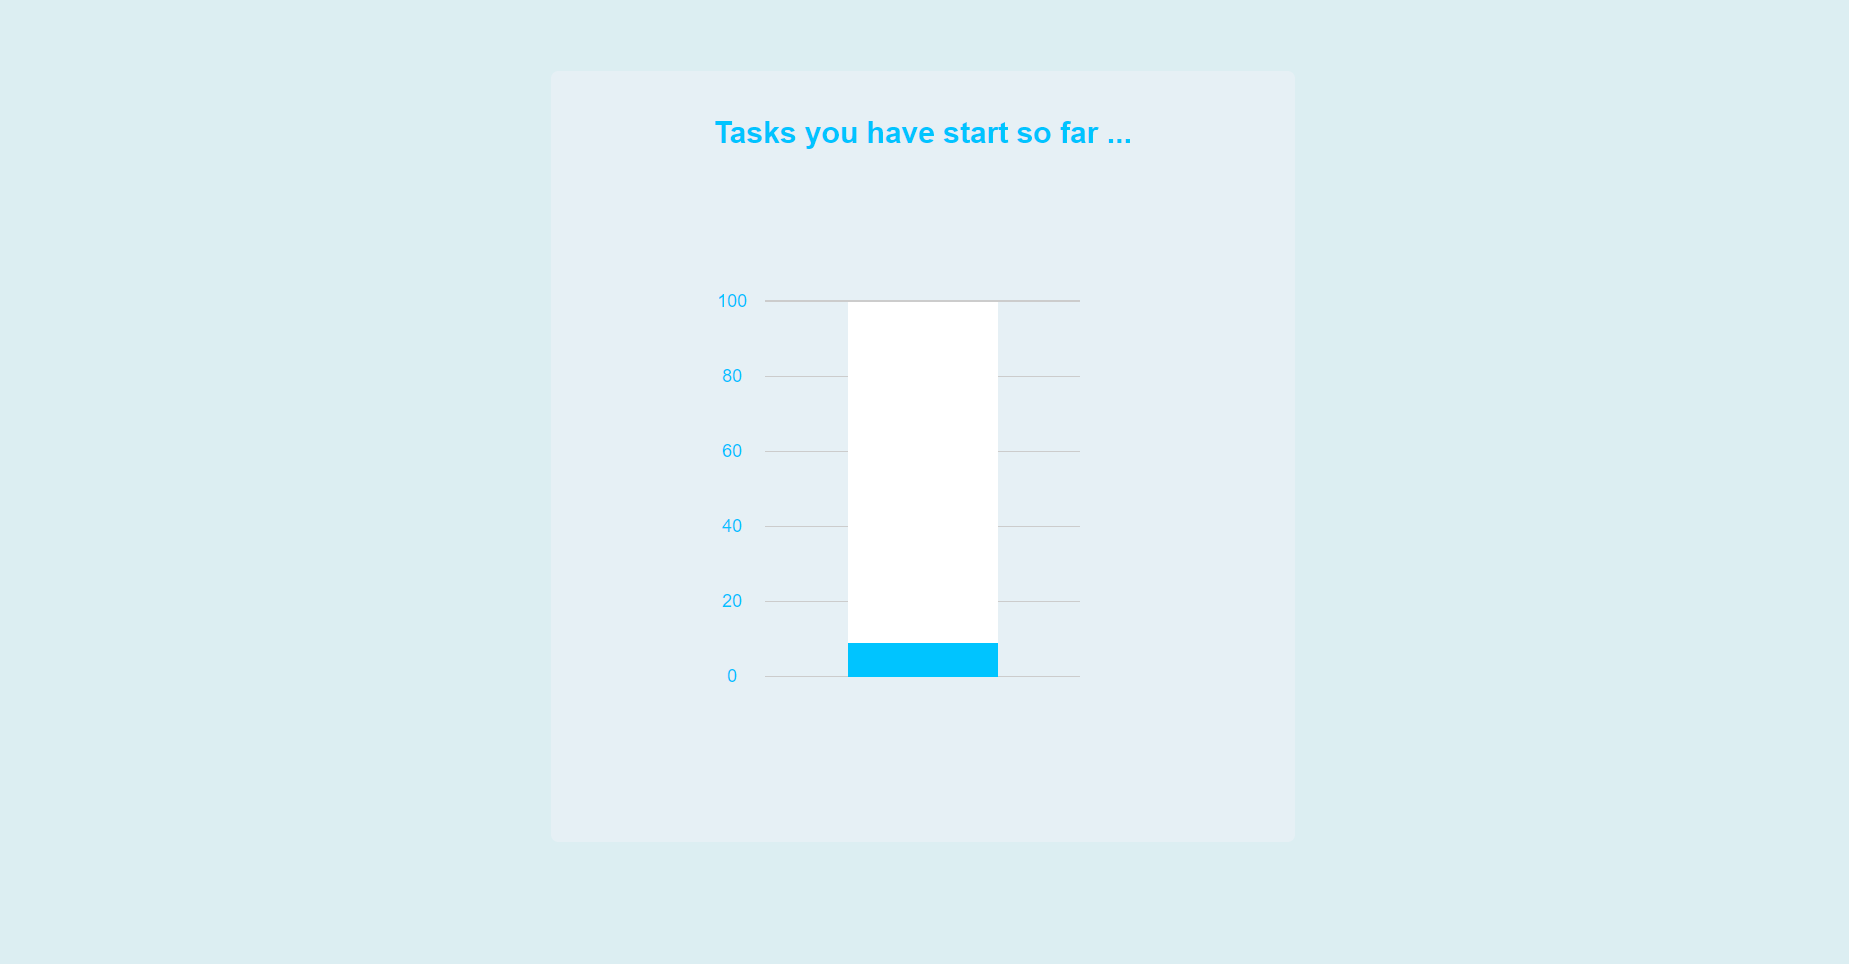
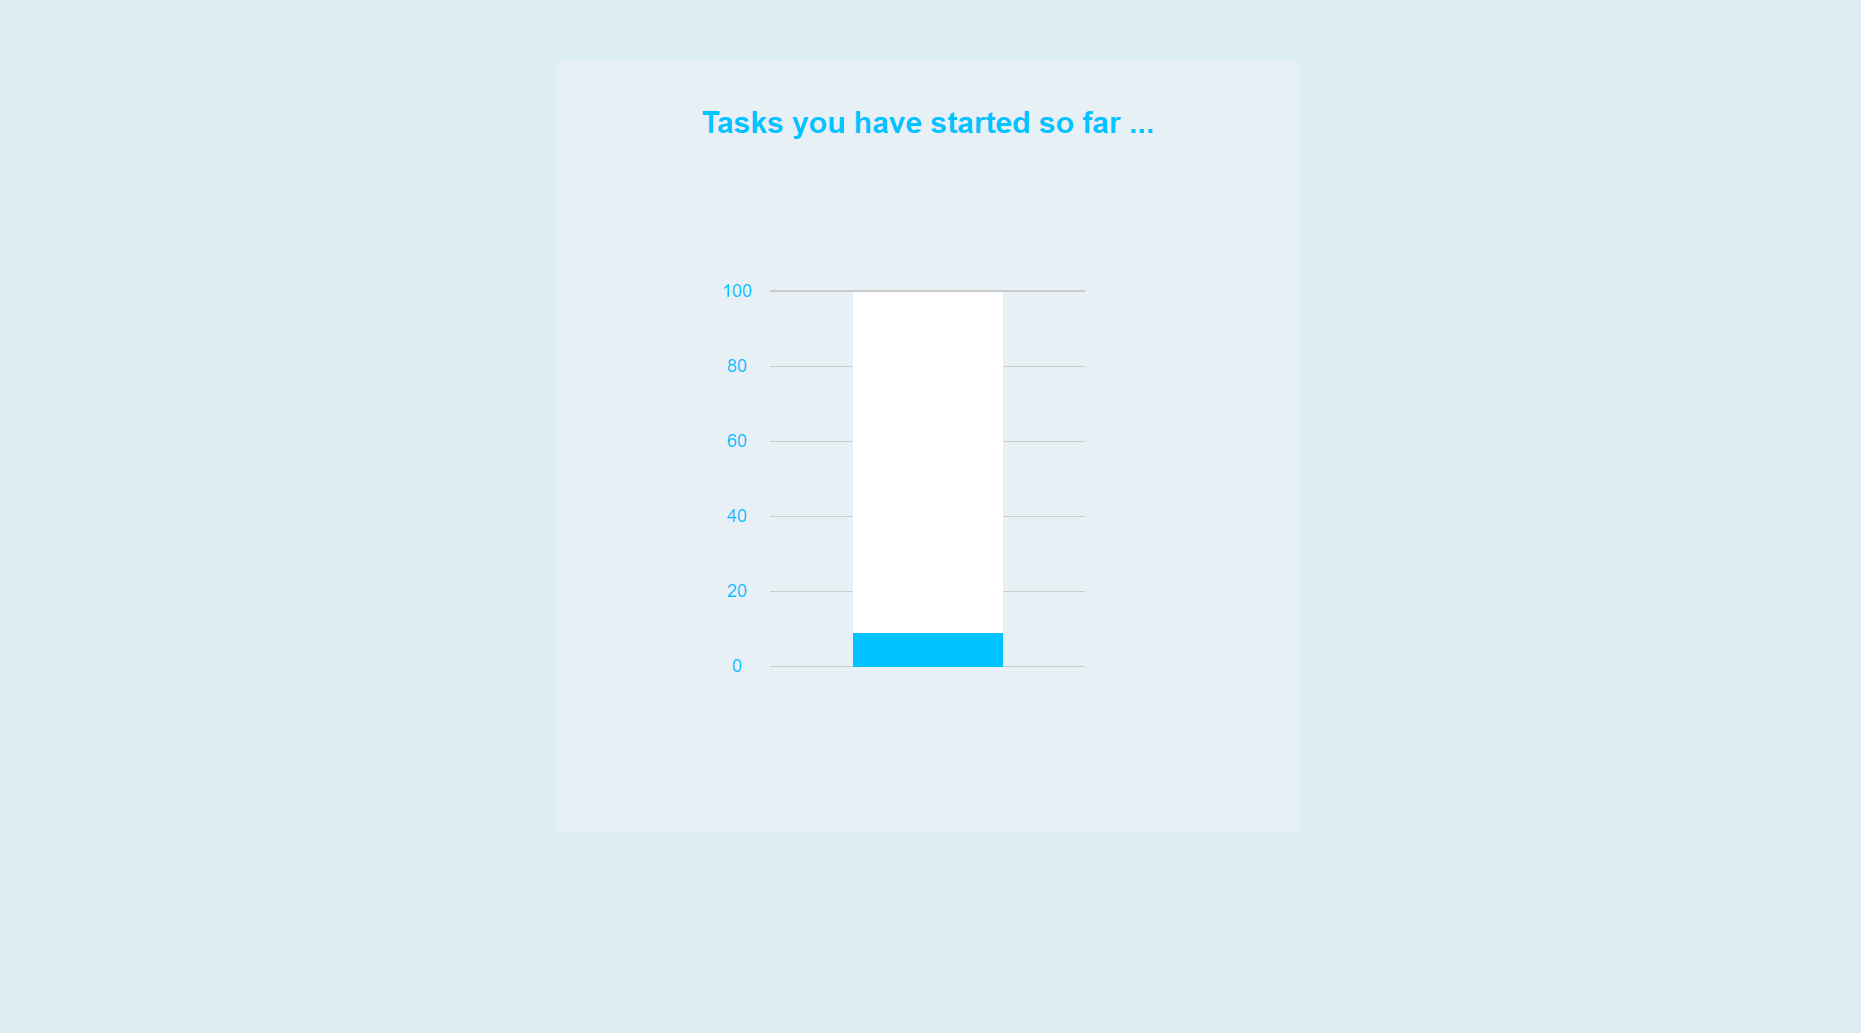
Update screenshot and README

Changed region(s): [[0.3699, 0.0934, 0.6165, 0.1556], [0.4316, 0.5913, 0.5549, 0.7158], [0.4316, 0.2801, 0.5549, 0.3112]]

diff --git a/templates/task/index.html b/templates/task/index.html
@@ -37,7 +37,7 @@
 
     <!-- Histogram -->
     <div class = "chart_container">
-        <p> Tasks you have start so far ...</p>
+        <p> Tasks you have started so far ...</p>
         <div class="chart">
             <div class="result-bg">
               <div class="result-bar" style="height: {{ count }}%"></div>
